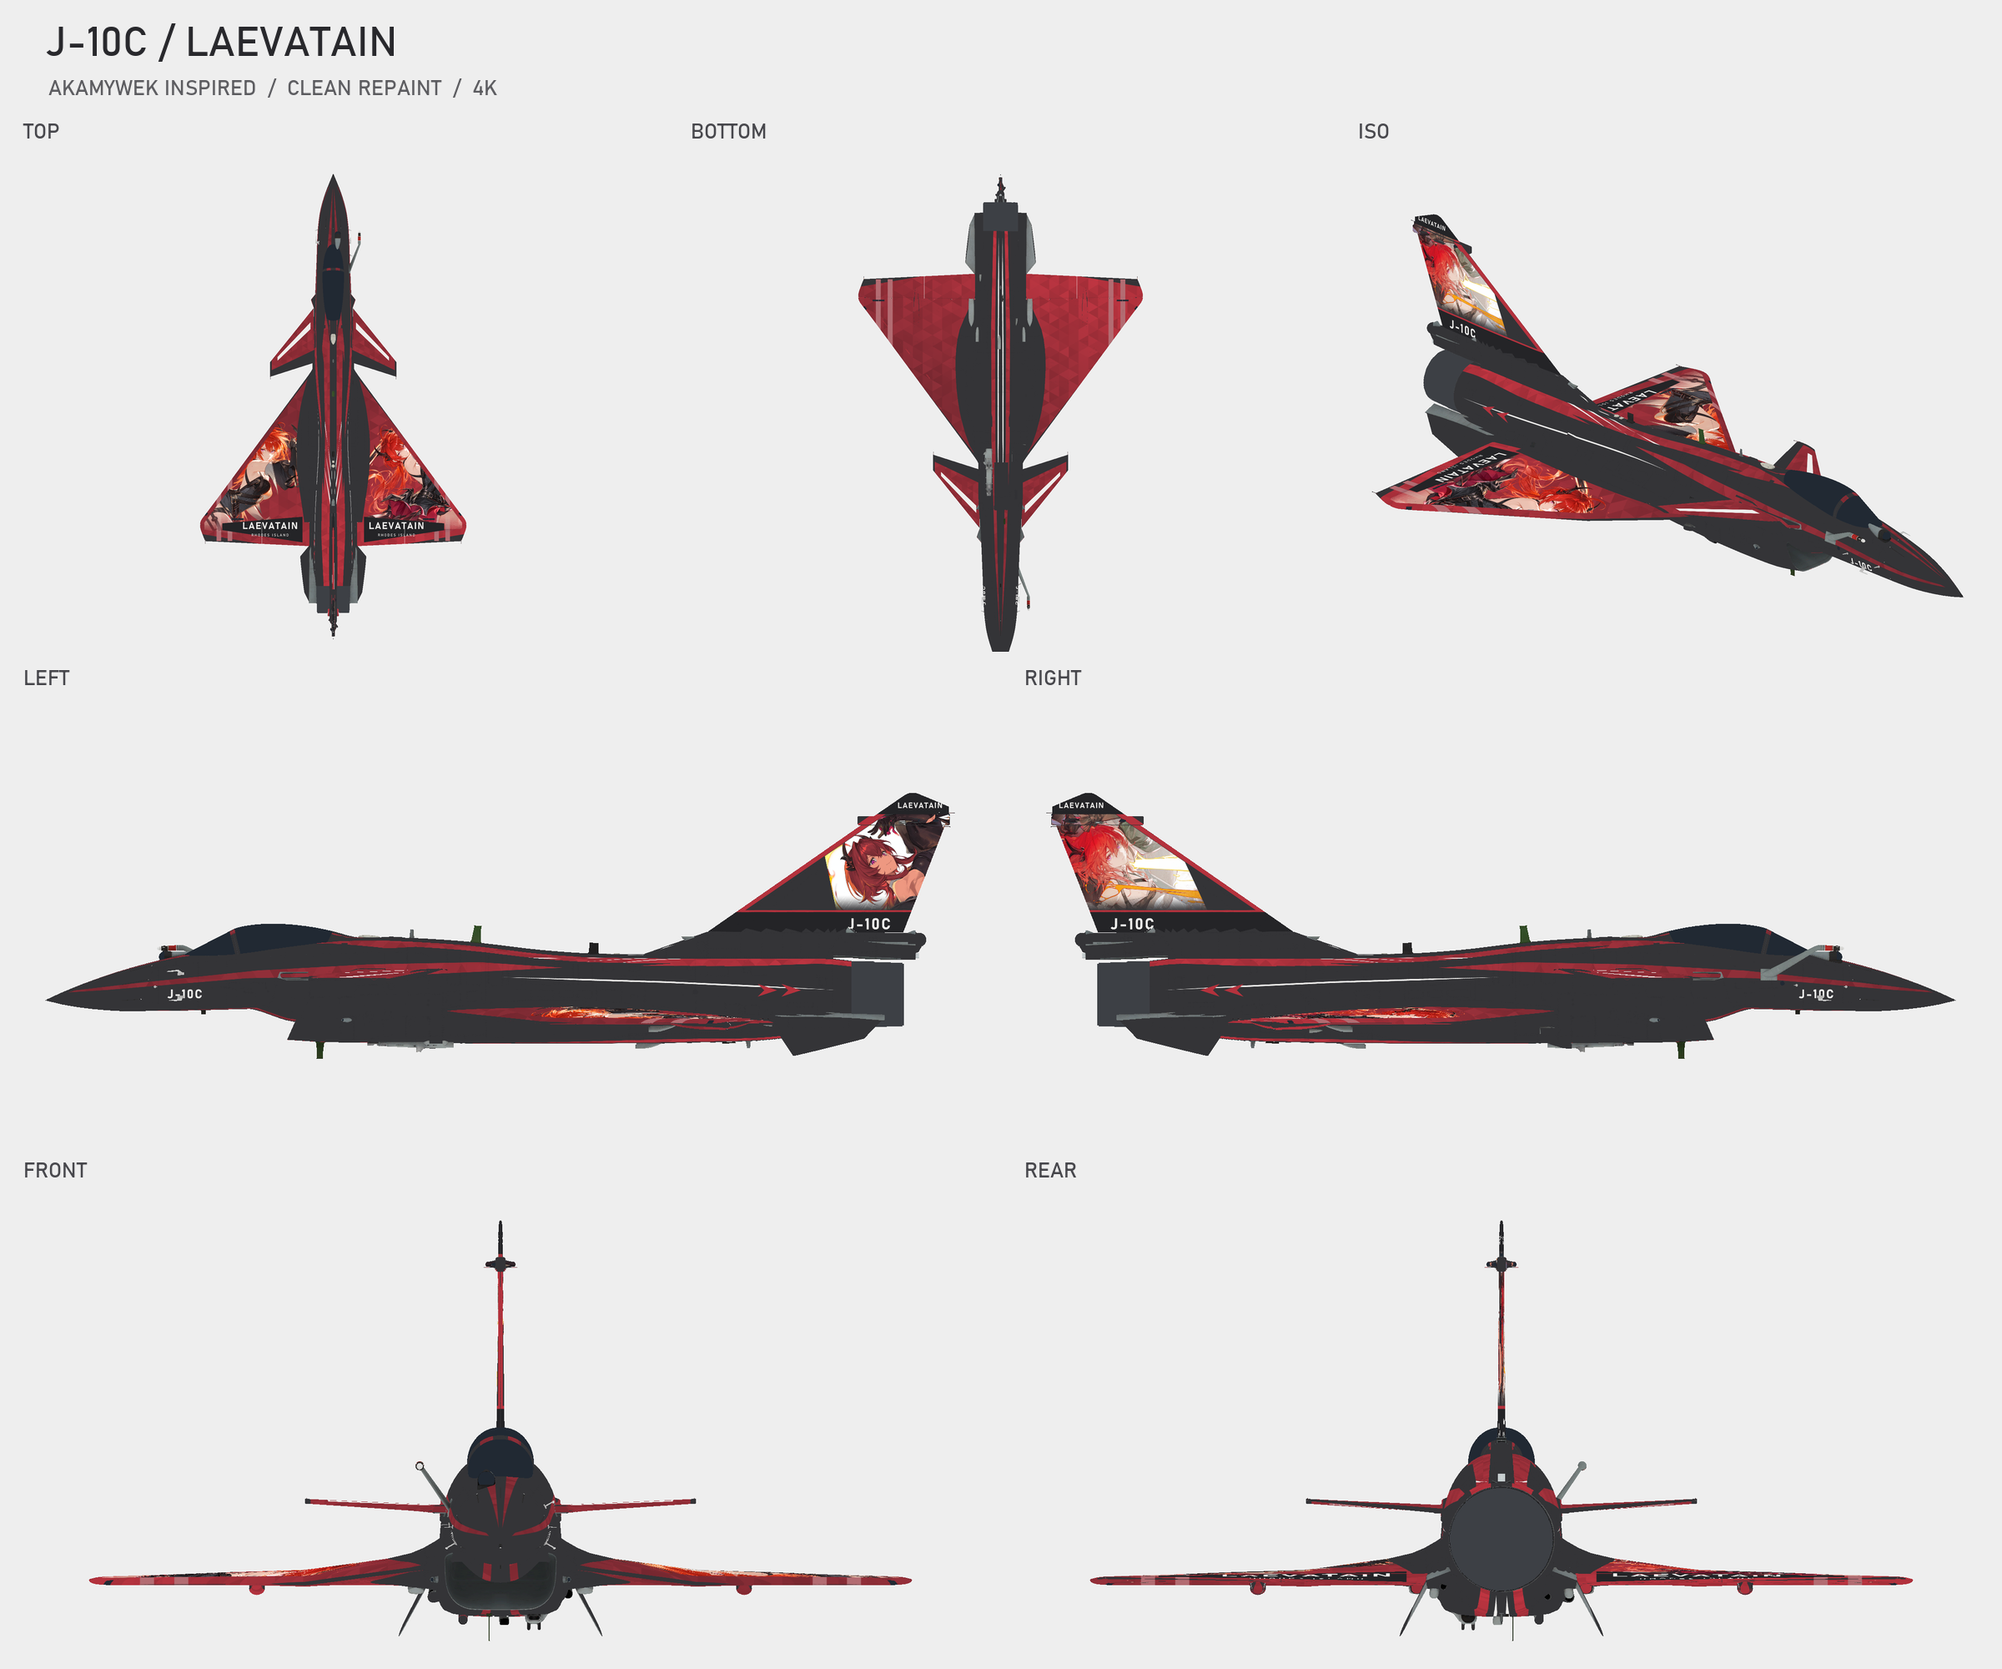
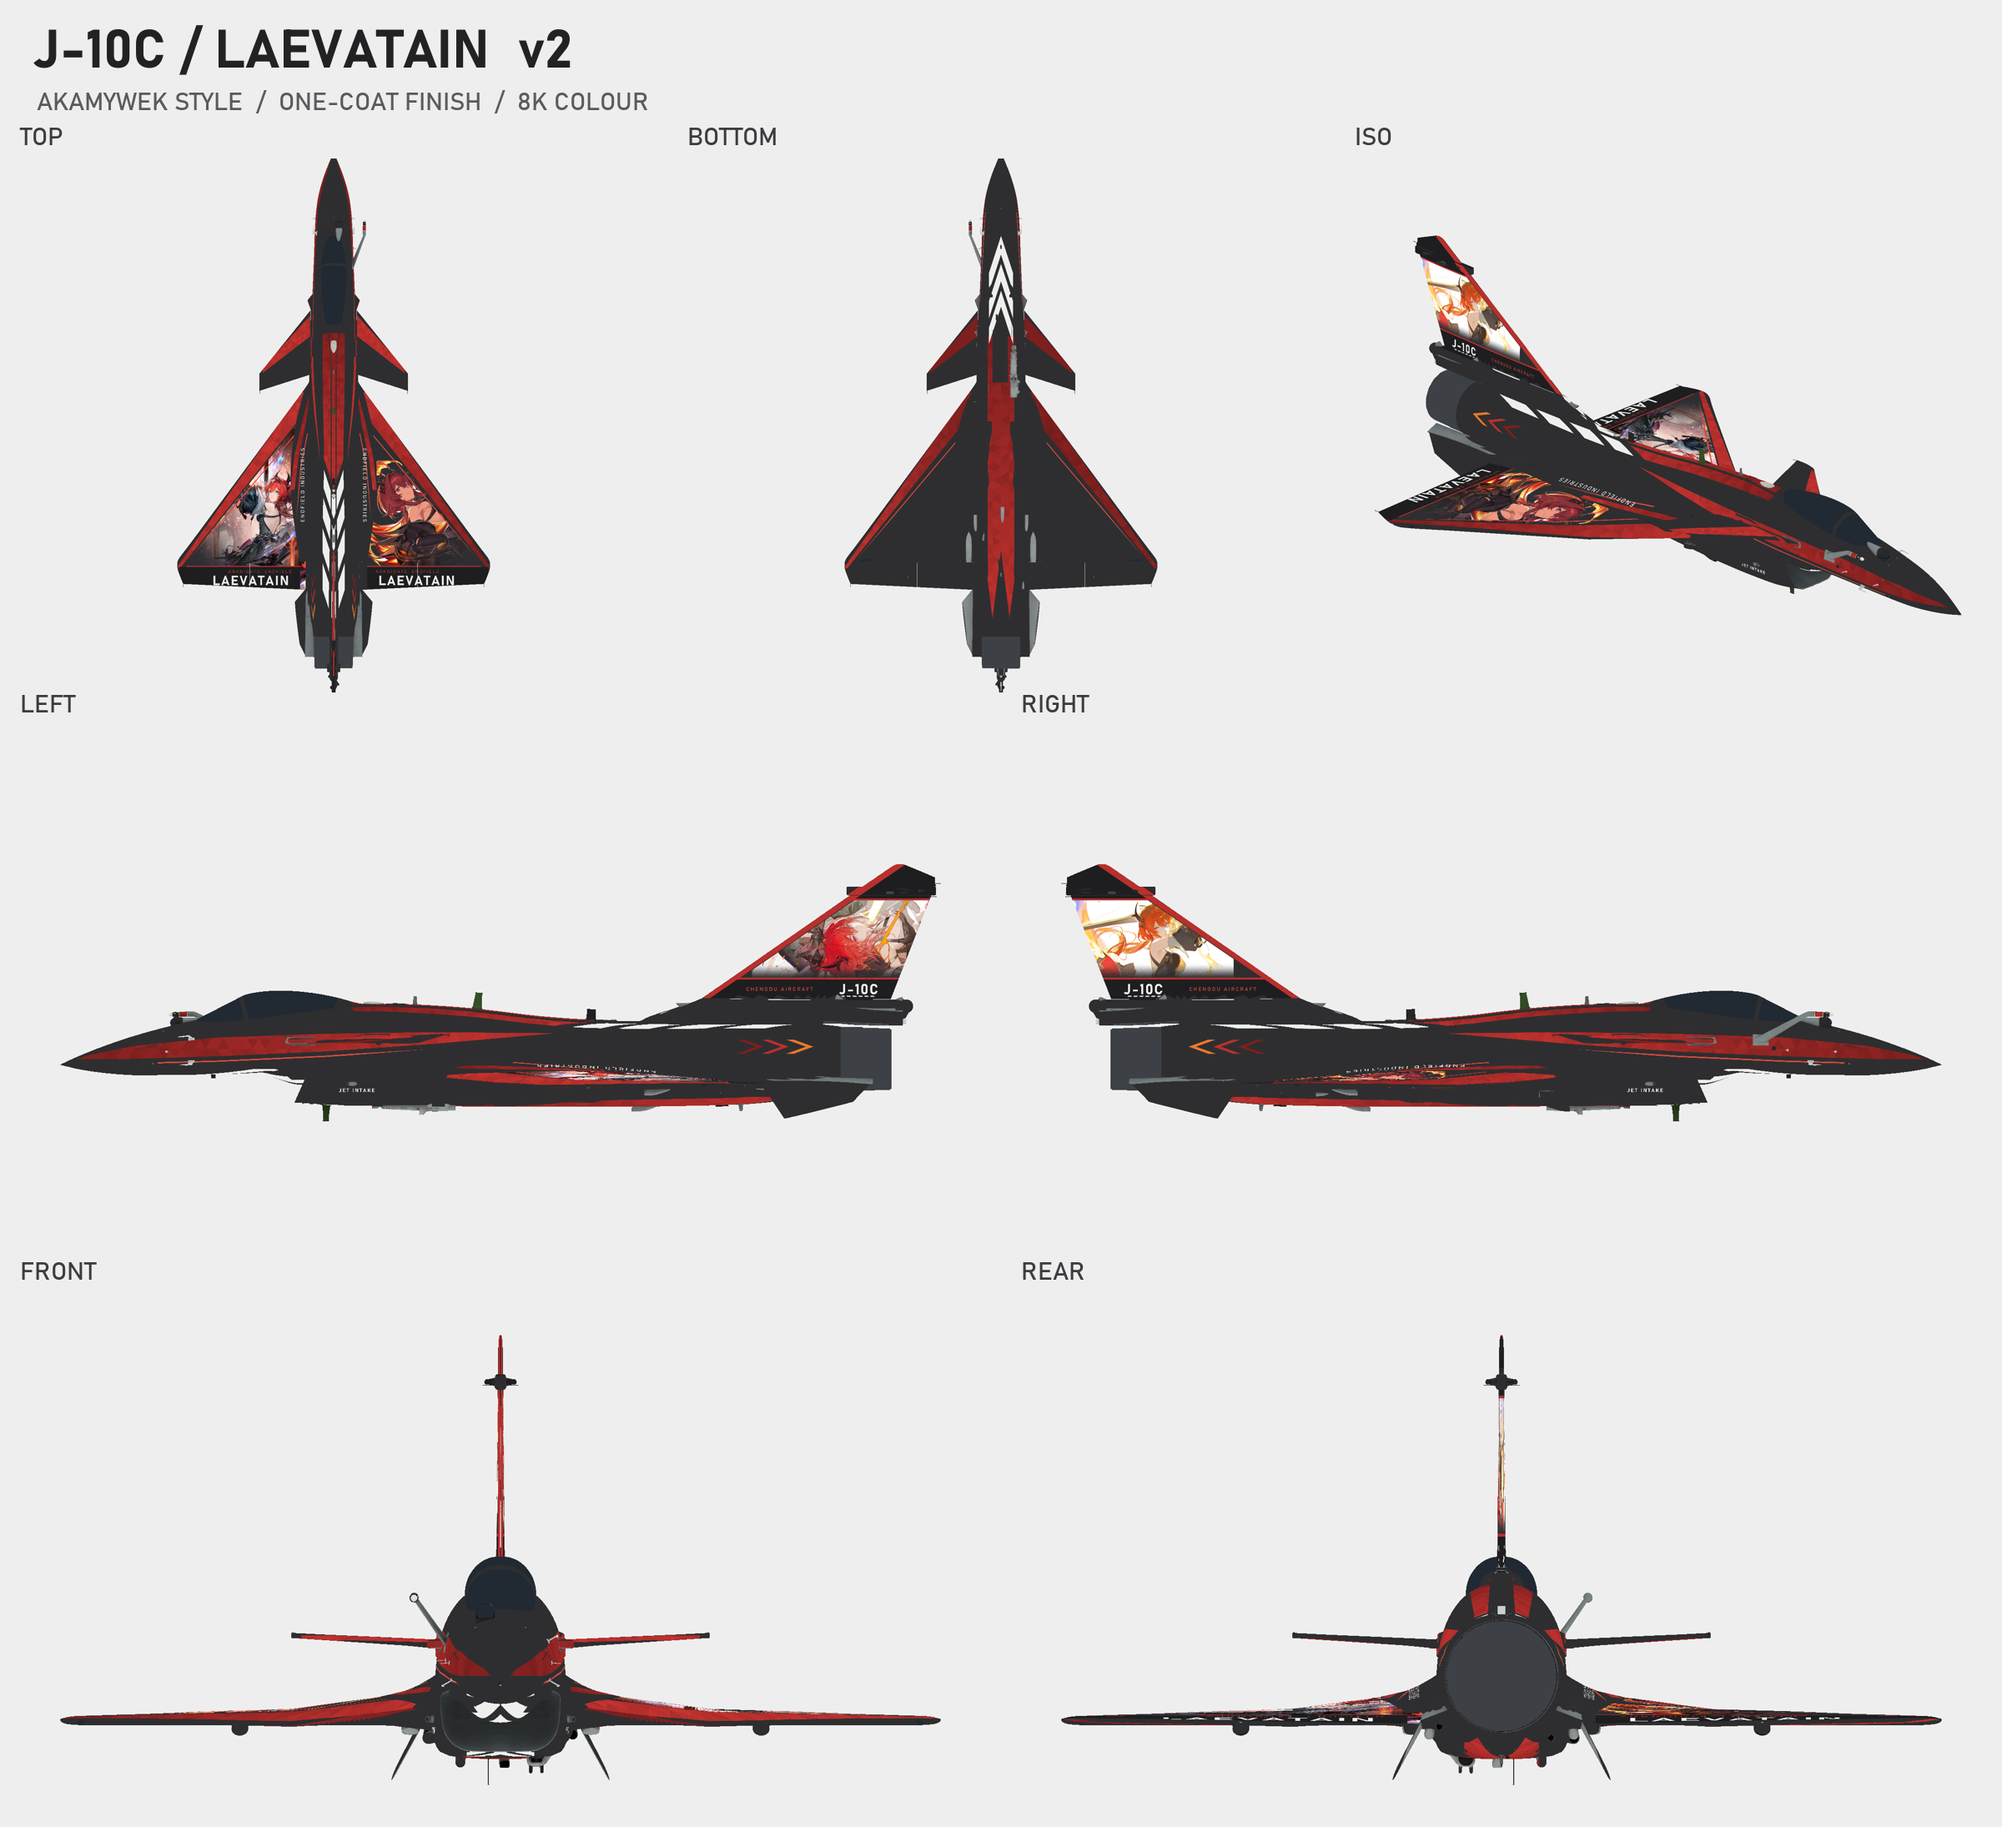
J-10C Laevatain v2: rebuilt with style Skill 1.8

diff --git a/works/j10c-laevatain-akamywek/README.md b/works/j10c-laevatain-akamywek/README.md
@@ -7,28 +7,30 @@
 | 机型 | J-10C |
 | 角色 | 莱万汀 |
 | 风格 | Akamywek 风格 |
-| 当前版本 | [v1](https://github.com/IcyRyna/war-thunder-liveries/releases/tag/works/j10c-laevatain-akamywek/v1) |
+| 当前版本 | [v2](https://github.com/IcyRyna/war-thunder-liveries/releases/tag/works/j10c-laevatain-akamywek/v2) |
 | 日期 | 2026-10-18 |
 | 状态 | 待评价 |
-| 说明 | 机背嵌套 V 照抄了旧示例的交叉臂，渲染成细针；漆面 R 128。按 Skill 3.8 规则需要修。 |
+| 说明 | v1 的问题全部重做：整机一层亮漆（R 173、B 0、法线压平），颜色图 8192，白色只做机背和机腹的嵌套 V，立绘全部换成官方原图，去掉写错的 RHODES ISLAND。还没进游戏实机看过。 |
 | 工作区任务 | `war-thunder-skins/assignments/j10c-laevatain-akamywek-20261018` |
 
 ## 文件（在 Release 里下载）
 
 | 文件 | 类型 | 大小 | SHA-256 |
 | --- | --- | --- | --- |
-| `J10C_Laevatain_Akamywek_4K.zip` | 游戏包（TGA） | 5.6 MB | `6a8bac489403f757…` |
-| `J10C_Laevatain_Editable_Source.zip` | 可编辑工程 | 31.7 MB | `94c6c19c9775f963…` |
-| `J10C_Laevatain_Akamywek.cmps` | 可编辑工程 | 7.2 MB | `a8ad2aa9b2dc9acb…` |
+| `J10C_Laevatain_Akamywek_v2.zip` | 游戏包（TGA，颜色 8192） | 21.9 MB | `0c72dc34af69deea…` |
+| `J10C_Laevatain_Akamywek_v2_Editable.zip` | 可编辑工程（设计稿、流程、图层） | 30.6 MB | `66891ee5b9572a04…` |
+| `J10C_Laevatain_Akamywek_v2.cmps` | 可编辑工程（Composa） | 16.1 MB | `b9d13505fc46c6e6…` |
+| `J10C_Laevatain_v2_install_notes_zh.txt` | 使用说明（中文） | 1.7 KB | `1e7e259ff575440a…` |
 
 ## 安装
 
-解压游戏包，把里面的文件夹放进 War Thunder 的 `UserSkins/`，在机库里选这个涂装。TGA 和 DDS 两个包装一个即可。
+解压游戏包，把里面的文件夹放进 War Thunder 的 `UserSkins/`，在机库里选这个涂装。
 
 ## 版本记录
 
 | 版本 | 日期 | 状态 |
 | --- | --- | --- |
-| v1 | 2026-10-18 | 待评价 |
+| v2 | 2026-10-18 | 待评价（按 Skill 3.8 / 1.8 从头重做） |
+| v1 | 2026-10-18 | 被 v2 取代：交叉细针 V、漆面 R 128 |
 
 角色立绘版权归原作品所有，仅作个人备份，非商业用途。

diff --git a/README.md b/README.md
@@ -10,7 +10,7 @@
 | --- | --- | --- | --- | --- |
 | [J-16 陈千语](works/j16-chen-qianyu-akamywek/README.md) | Akamywek 风格 | [v10](https://github.com/IcyRyna/war-thunder-liveries/releases/tag/works/j16-chen-qianyu-akamywek/v10) | 2026-10-18 | 已认可 |
 | [J-10C 庄方宜](works/j10c-zhuang-fangyi-akamywek/README.md) | Akamywek 风格 | [v3](https://github.com/IcyRyna/war-thunder-liveries/releases/tag/works/j10c-zhuang-fangyi-akamywek/v3) | 2026-10-18 | 待评价 |
-| [J-10C 莱万汀](works/j10c-laevatain-akamywek/README.md) | Akamywek 风格 | [v1](https://github.com/IcyRyna/war-thunder-liveries/releases/tag/works/j10c-laevatain-akamywek/v1) | 2026-10-18 | 待评价 |
+| [J-10C 莱万汀](works/j10c-laevatain-akamywek/README.md) | Akamywek 风格 | [v2](https://github.com/IcyRyna/war-thunder-liveries/releases/tag/works/j10c-laevatain-akamywek/v2) | 2026-10-18 | 待评价 |
 | [J-16 陈千语](works/j16-chen-qianyu/README.md) | 早期风格 | [v1](https://github.com/IcyRyna/war-thunder-liveries/releases/tag/works/j16-chen-qianyu/v1) | 2026-10-16 | 待评价 |
 | [J-10C 陈千语](works/j10c-chen-qianyu-repaired/README.md) | 早期风格（重修版） | [v1](https://github.com/IcyRyna/war-thunder-liveries/releases/tag/works/j10c-chen-qianyu-repaired/v1) | 2026-10-16 | 待评价 |
 | [J-10C 诀](works/j10c-jue-repaired/README.md) | 早期风格（重修版） | [v1](https://github.com/IcyRyna/war-thunder-liveries/releases/tag/works/j10c-jue-repaired/v1) | 2026-10-16 | 待评价 |
